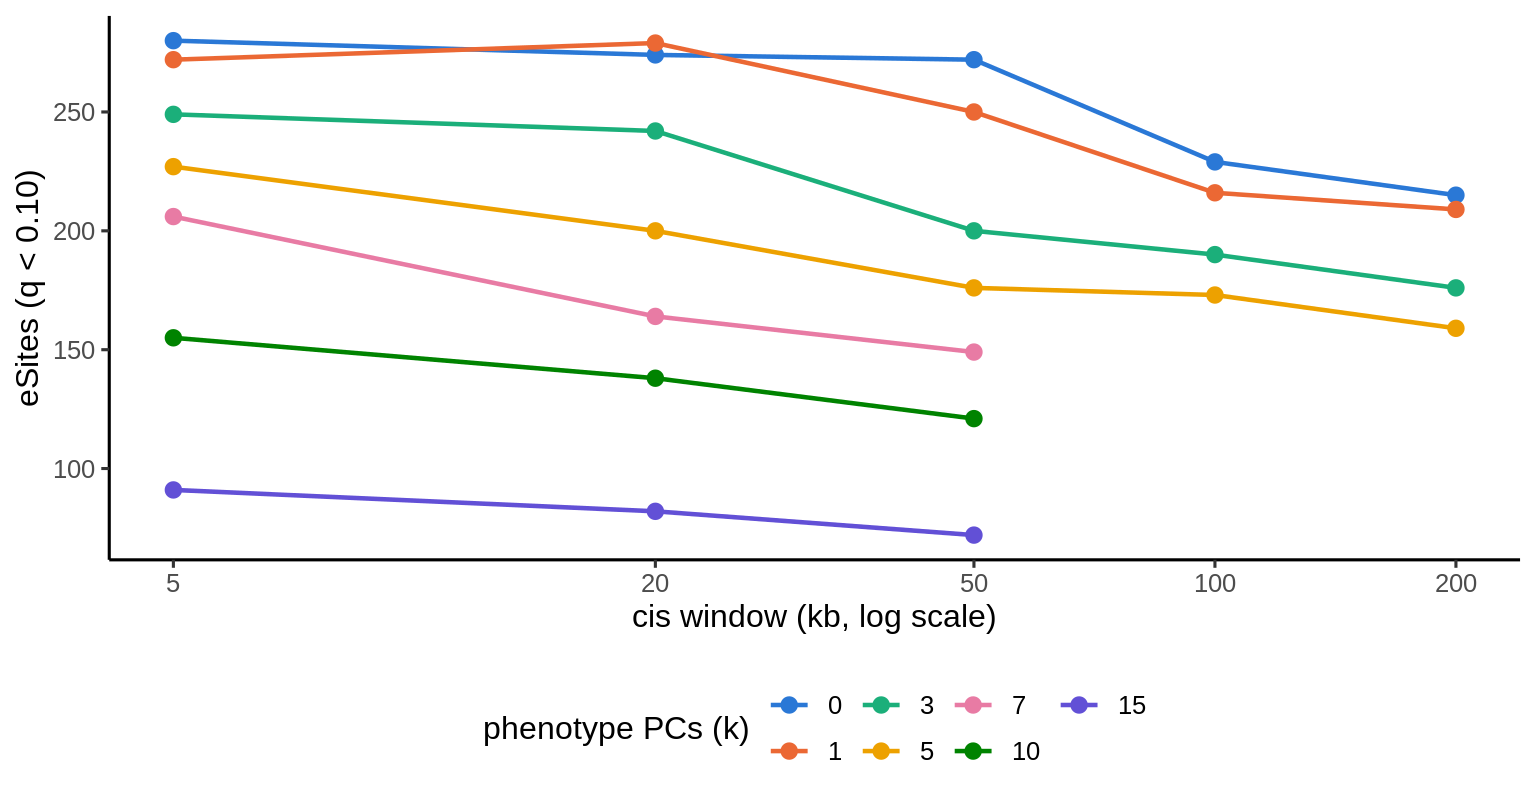
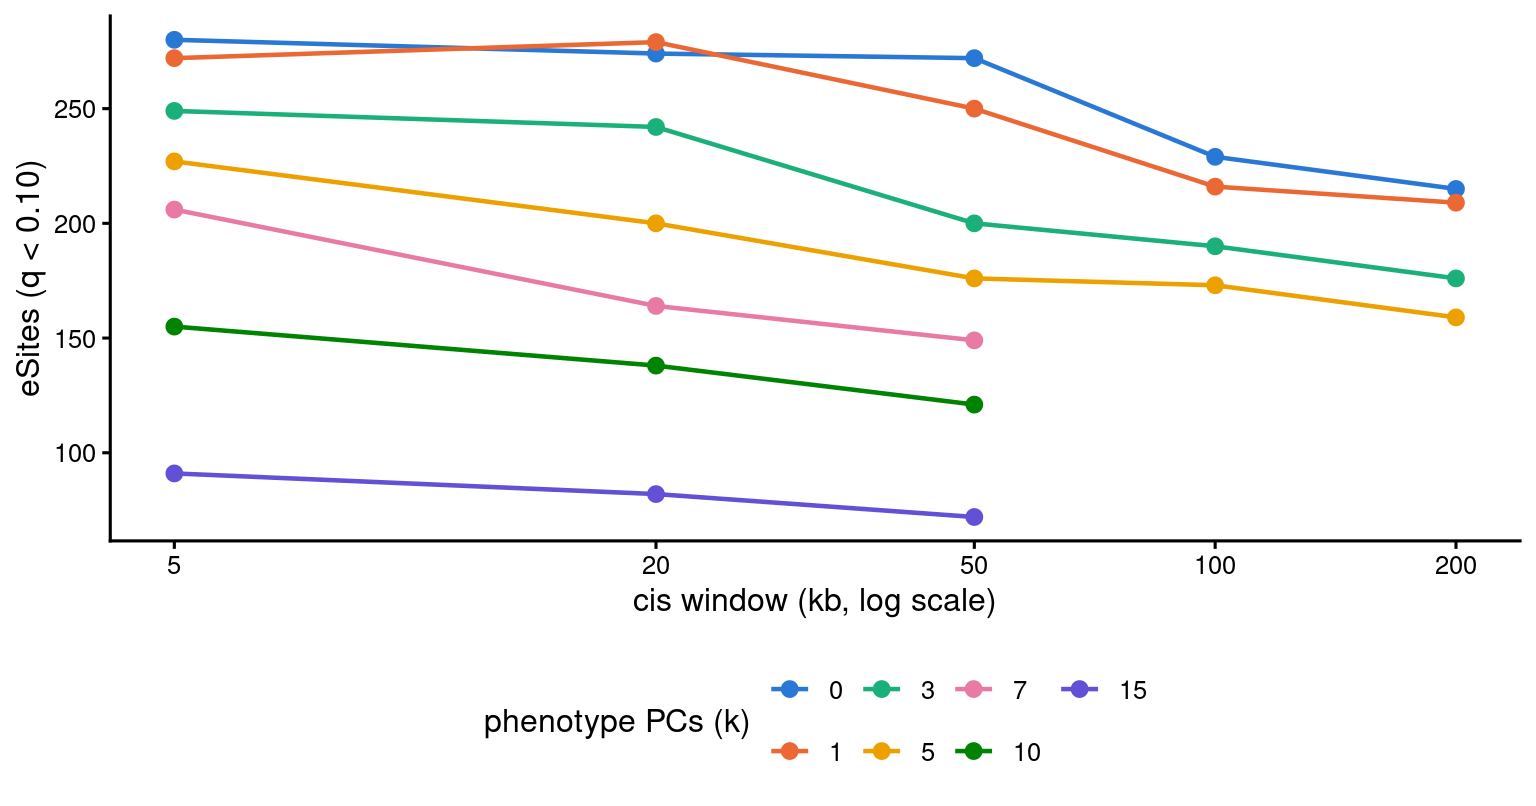
update

diff --git a/docs/stage2_cis_qtl_mapping.html b/docs/stage2_cis_qtl_mapping.html
@@ -15,7 +15,7 @@
 
 <title>Stage 2: cis-QTL mapping</title>
 
-<script src="site_libs/header-attrs-2.21/header-attrs.js"></script>
+<script src="site_libs/header-attrs-2.25/header-attrs.js"></script>
 <script src="site_libs/jquery-3.6.0/jquery-3.6.0.min.js"></script>
 <meta name="viewport" content="width=device-width, initial-scale=1" />
 <link href="site_libs/bootstrap-3.3.5/css/cosmo.min.css" rel="stylesheet" />
@@ -31,15 +31,15 @@
        h6 {font-size: 12px;}
        code {color: inherit; background-color: rgba(0, 0, 0, 0.04);}
        pre:not([class]) { background-color: white }</style>
-<script src="site_libs/jqueryui-1.11.4/jquery-ui.min.js"></script>
+<script src="site_libs/jqueryui-1.13.2/jquery-ui.min.js"></script>
 <link href="site_libs/tocify-1.9.1/jquery.tocify.css" rel="stylesheet" />
 <script src="site_libs/tocify-1.9.1/jquery.tocify.js"></script>
 <script src="site_libs/navigation-1.1/tabsets.js"></script>
 <script src="site_libs/navigation-1.1/codefolding.js"></script>
 <link href="site_libs/highlightjs-9.12.0/textmate.css" rel="stylesheet" />
 <script src="site_libs/highlightjs-9.12.0/highlight.js"></script>
-<link href="site_libs/font-awesome-6.2.1/css/all.min.css" rel="stylesheet" />
-<link href="site_libs/font-awesome-6.2.1/css/v4-shims.min.css" rel="stylesheet" />
+<link href="site_libs/font-awesome-6.4.2/css/all.min.css" rel="stylesheet" />
+<link href="site_libs/font-awesome-6.4.2/css/v4-shims.min.css" rel="stylesheet" />
 
 <link rel="icon" href="https://github.com/workflowr/workflowr-assets/raw/main/img/reproducible.png">
 <!-- Add a small amount of space between sections. -->
@@ -536,15 +536,15 @@ project makes it easier to run your code on other machines.</p>
 <div class="panel panel-default">
 <div class="panel-heading">
 <p class="panel-title">
-<a data-toggle="collapse" data-parent="#workflowr-checks" href="#strongRepositoryversionstrongahrefhttpsgithubcomxsun1229pumseqtree50ffa83abe7c625702631339959308199d3dfbf9targetblank50ffa83a">
+<a data-toggle="collapse" data-parent="#workflowr-checks" href="#strongRepositoryversionstrongahrefhttpsgithubcomxsun1229pumseqtreea364e2ec61b70eb750c28487396bb781469fde9dtargetblanka364e2ea">
 <span class="glyphicon glyphicon-ok text-success"
 aria-hidden="true"></span> <strong>Repository version:</strong>
-<a href="https://github.com/xsun1229/pumseq/tree/50ffa83abe7c625702631339959308199d3dfbf9" target="_blank">50ffa83</a>
+<a href="https://github.com/xsun1229/pumseq/tree/a364e2ec61b70eb750c28487396bb781469fde9d" target="_blank">a364e2e</a>
 </a>
 </p>
 </div>
 <div
[2 lines of base64/hex data omitted]
 class="panel-collapse collapse">
 <div class="panel-body">
 <p>
@@ -554,7 +554,7 @@ reproducibility.
 </p>
 <p>
 The results in this page were generated with repository version
-<a href="https://github.com/xsun1229/pumseq/tree/50ffa83abe7c625702631339959308199d3dfbf9" target="_blank">50ffa83</a>.
+<a href="https://github.com/xsun1229/pumseq/tree/a364e2ec61b70eb750c28487396bb781469fde9d" target="_blank">a364e2e</a>.
 See the <em>Past versions</em> tab to see a history of the changes made
 to the R Markdown and HTML files.
 </p>
@@ -619,6 +619,40 @@ Message
 </tr>
 </thead>
 <tbody>
+<tr>
+<td>
+Rmd
+</td>
+<td>
+<a href="https://github.com/xsun1229/pumseq/blob/a364e2ec61b70eb750c28487396bb781469fde9d/analysis/stage2_cis_qtl_mapping.Rmd" target="_blank">a364e2e</a>
+</td>
+<td>
+XSun
+</td>
+<td>
+2026-11-18
+</td>
+<td>
+update
+</td>
+</tr>
+<tr>
+<td>
+html
+</td>
+<td>
+<a href="https://rawcdn.githack.com/xsun1229/pumseq/a364e2ec61b70eb750c28487396bb781469fde9d/docs/stage2_cis_qtl_mapping.html" target="_blank">a364e2e</a>
+</td>
+<td>
+XSun
+</td>
+<td>
+2026-11-18
+</td>
+<td>
+update
+</td>
+</tr>
 <tr>
 <td>
 Rmd
@@ -867,14 +901,13 @@ stopifnot(all(bk$npcs %in% c(0, 1)))   # the text below says k = 0 or 1 gives th
 most eSites at every window: 280 and 272 at 5 kb against 249 at k = 3,
 and 272 and 250 at 50 kb against 200. Phenotype PCs therefore do not
 increase power here.</p>
-<p>k = 0 is tested on fewer sites than the other settings (9,071 against
-10,086 at k = 1, at 5 kb). With no PCs the null model is intercept-only,
-and at about a thousand shallow sites its dispersion estimate runs to
-the boundary (no overdispersion); the optimiser then stops at its
-iteration limit and the fit is discarded, although the best fit is
-simply the binomial one. Before switching, the calibration of k = 0 and
-1 is being checked (1 real + 5 genome-wide permutations, as for k =
-3).</p>
+<!-- k = 0 is tested on fewer sites than the other settings (9,071 against -->
+<!-- 10,086 at k = 1, at 5 kb). With no PCs the null model is intercept-only, -->
+<!-- and at about a thousand shallow sites its dispersion estimate runs to the boundary -->
+<!-- (no overdispersion); the optimiser then stops at its iteration limit and the fit is -->
+<!-- discarded, although the best fit is simply the binomial one. Before switching, the -->
+<!-- calibration of k = 0 and 1 is being checked (1 real + 5 genome-wide permutations, as -->
+<!-- for k = 3). -->
 <pre class="r"><code>pd &lt;- ST[, .(k = factor(npcs), window_kb, eSites = disc_q10)]
 ggplot(pd, aes(window_kb, eSites, colour = k)) + geom_line(linewidth = 0.8) + geom_point(size = 2.4) +
   scale_x_log10(breaks = ws) +
@@ -1194,10 +1227,10 @@ Session information
 <pre class="r"><code>sessionInfo()</code></pre>
 <pre><code>R version 4.2.0 (2022-04-22)
 Platform: x86_64-pc-linux-gnu (64-bit)
-Running under: CentOS Linux 8
+Running under: CentOS Linux 7 (Core)
 
 Matrix products: default
-BLAS/LAPACK: /software/openblas-0.3.13-el8-x86_64/lib/libopenblas_skylakexp-r0.3.13.so
+BLAS/LAPACK: /software/openblas-0.3.13-el7-x86_64/lib/libopenblas_haswellp-r0.3.13.so
 
 locale:
 [1] C
@@ -1206,24 +1239,23 @@ attached base packages:
 [1] stats     graphics  grDevices utils     datasets  methods   base     
 
 other attached packages:
-[1] ggplot2_3.4.2     data.table_1.14.4 workflowr_1.7.0  
+[1] ggplot2_4.0.3     data.table_1.14.2
 
 loaded via a namespace (and not attached):
- [1] tidyselect_1.2.0  xfun_0.38         bslib_0.3.1       colorspace_2.0-3 
- [5] vctrs_0.6.1       generics_0.1.3    htmltools_0.5.7   yaml_2.3.5       
- [9] utf8_1.2.2        rlang_1.1.2       R.oo_1.24.0       jquerylib_0.1.4  
-[13] later_1.3.0       pillar_1.9.0      glue_1.6.2        withr_2.5.0      
-[17] R.utils_2.11.0    lifecycle_1.0.4   stringr_1.5.0     munsell_0.5.0    
-[21] gtable_0.3.0      R.methodsS3_1.8.1 evaluate_0.15     labeling_0.4.2   
-[25] knitr_1.42        callr_3.7.0       fastmap_1.1.0     httpuv_1.6.5     
-[29] ps_1.7.0          fansi_1.0.3       highr_0.9         Rcpp_1.0.11      
-[33] promises_1.2.0.1  scales_1.2.0      jsonlite_1.8.7    farver_2.1.0     
-[37] fs_1.5.2          digest_0.6.29     stringi_1.7.6     processx_3.5.3   
-[41] dplyr_1.1.2       getPass_0.2-2     rprojroot_2.0.3   grid_4.2.0       
-[45] cli_3.6.2         tools_4.2.0       magrittr_2.0.3    sass_0.4.1       
-[49] tibble_3.2.1      whisker_0.4       pkgconfig_2.0.3   rmarkdown_2.21   
-[53] httr_1.4.5        rstudioapi_0.14   R6_2.5.1          git2r_0.30.1     
-[57] compiler_4.2.0   </code></pre>
+ [1] Rcpp_1.0.12        highr_0.9          RColorBrewer_1.1-3 pillar_1.9.0      
+ [5] compiler_4.2.0     bslib_0.3.1        later_1.3.0        jquerylib_0.1.4   
+ [9] git2r_0.30.1       workflowr_1.7.0    R.methodsS3_1.8.1  R.utils_2.11.0    
+[13] tools_4.2.0        digest_0.6.29      gtable_0.3.6       jsonlite_1.8.0    
+[17] evaluate_0.15      lifecycle_1.0.4    tibble_3.2.1       pkgconfig_2.0.3   
+[21] rlang_1.1.2        cli_3.6.1          rstudioapi_0.13    yaml_2.3.5        
+[25] xfun_0.41          fastmap_1.1.0      withr_2.5.0        dplyr_1.1.4       
+[29] stringr_1.5.1      knitr_1.39         generics_0.1.4     fs_1.5.2          
+[33] vctrs_0.6.5        sass_0.4.1         tidyselect_1.2.0   grid_4.2.0        
+[37] rprojroot_2.0.3    glue_1.6.2         R6_2.5.1           fansi_1.0.3       
+[41] rmarkdown_2.25     farver_2.1.0       magrittr_2.0.3     whisker_0.4       
+[45] scales_1.4.0       promises_1.2.0.1   htmltools_0.5.2    dichromat_2.0-0.1 
+[49] httpuv_1.6.5       labeling_0.4.2     S7_0.2.0           utf8_1.2.2        
+[53] stringi_1.7.6      R.oo_1.24.0       </code></pre>
 </div>
 </div>
 

diff --git a/docs/site_libs/navigation-1.1/codefolding.js b/docs/site_libs/navigation-1.1/codefolding.js
@@ -31,7 +31,7 @@ window.initializeCodeFolding = function(show) {
     $(this).detach().appendTo(div);
 
     // add a show code button right above
-    var showCodeText = $('<span>' + (showThis ? 'Hide' : 'Code') + '</span>');
+    var showCodeText = $('<span>' + (showThis ? 'Hide' : 'Show') + '</span>');
     var showCodeButton = $('<button type="button" class="btn btn-default btn-xs btn-secondary btn-sm code-folding-btn pull-right float-right"></button>');
     showCodeButton.append(showCodeText);
     showCodeButton
@@ -57,7 +57,7 @@ window.initializeCodeFolding = function(show) {
     //   * Change text
     //   * add a class for intermediate states styling
     div.on('hide.bs.collapse', function () {
-      showCodeText.text('Code');
+      showCodeText.text('Show');
       showCodeButton.addClass('btn-collapsing');
     });
     div.on('hidden.bs.collapse', function () {
